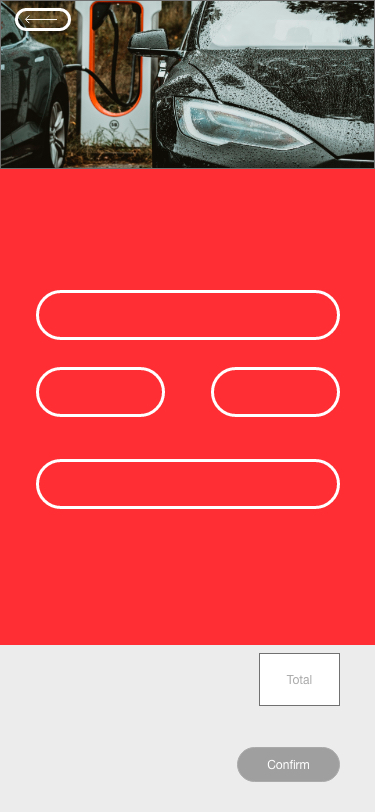
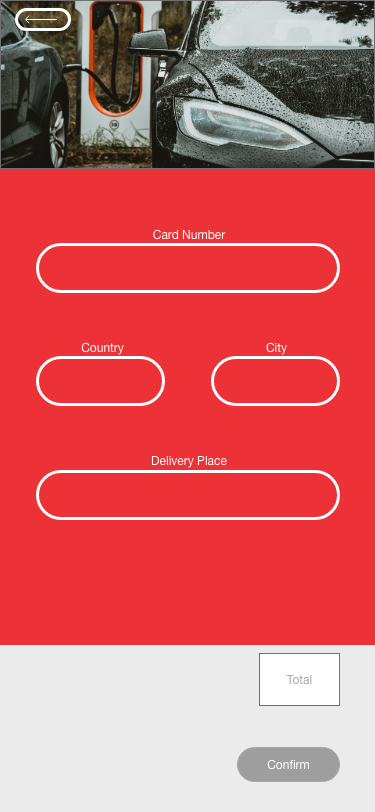
ya casi

diff --git a/src/view/EnvioView.java b/src/view/EnvioView.java
@@ -10,55 +10,54 @@ public class EnvioView {
 	private PApplet app; 
 	private PImage fondo; 
 	private ControlP5 cp5;
-	private String inputs2;
-	private String inputpais;
-	private String ciudad;
-	private String direccion;
+
 	private PFont font1;
+	private int cambio; 
+	private String ID, ciudad, pais, dir;
+	private boolean panta; 
+	
+	private String[] inputs2; 
 	EnvioControl enviocontroller; 
 	public EnvioView(PApplet app) {
+		panta = false; 
+		cambio = 50; 
 		enviocontroller = new EnvioControl(app); 
+		inputs2 = new String[4]; //
 		this.app= app; 
-		inputs2 = "id";
-		inputpais = "pais";
-		ciudad = "ciudad";
-		direccion = "dir";
+		inputs2[0] = "id";
+		inputs2[1] = "pais";
+		inputs2[2] = "ciudad";
+		inputs2[3] = "dir";
 		
 		fondo = app.loadImage("img/credi.png"); 
 		cp5 = new ControlP5(app);
 		font1 = app.createFont("fonts/font1.ttf", 18);
 		
 		//-----------------------------
-	
-
-
-		
-
-			cp5.addTextfield(inputs2).setPosition((app.width / 2) - 120, 300 ).setSize(235, 30)
-					.setAutoClear(true).setColor(100).setColorActive(app.color(255, 0, 0))
-					.setColorBackground(app.color(255, 255, 255)).setColorForeground(app.color(255, 0, 0))
+			cp5.addTextfield(inputs2[0]).setPosition((app.width / 2) - 120, 300-cambio ).setSize(235, 30)
+					.setAutoClear(true).setColor(255).setColorActive(app.color(255, 0, 0,1))
+					.setColorBackground(app.color(255, 255, 255,1)).setColorForeground(app.color(255, 0, 0,1))
 					.setFont(font1)
 					.getCaptionLabel()
 					.hide()
 					;
-			
-			cp5.addTextfield(inputpais).setPosition( 55, 374 ).setSize(100, 40)
-			.setAutoClear(true).setColor(100).setColorActive(app.color(255, 0, 0))
-			.setColorBackground(app.color(255, 255, 255)).setColorForeground(app.color(255, 0, 0))
+			cp5.addTextfield(inputs2[1]).setPosition( 55, 388-cambio/2 ).setSize(100, 40)
+			.setAutoClear(true).setColor(255).setColorActive(app.color(255, 0, 0,1))
+			.setColorBackground(app.color(255, 255, 255,1)).setColorForeground(app.color(255, 0, 0,1))
 			.setFont(font1)
 			.getCaptionLabel()
 			.hide()
 			;
-			cp5.addTextfield(ciudad).setPosition( 228, 374 ).setSize(100, 40)
-			.setAutoClear(true).setColor(100).setColorActive(app.color(255, 0, 0))
-			.setColorBackground(app.color(255, 255, 255)).setColorForeground(app.color(255, 0, 0))
+			cp5.addTextfield(inputs2[2]).setPosition( 228, 388-cambio/2 ).setSize(100, 40)
+			.setAutoClear(true).setColor(255).setColorActive(app.color(255, 0, 0,1))
+			.setColorBackground(app.color(255, 255, 255,1)).setColorForeground(app.color(255, 0, 0,1))
 			.setFont(font1)
 			.getCaptionLabel()
 			.hide()
 			;
-			cp5.addTextfield(direccion).setPosition((app.width / 2) - 120, 468 ).setSize(235, 30)
-			.setAutoClear(true).setColor(100).setColorActive(app.color(255, 0, 0))
-			.setColorBackground(app.color(255, 255, 255)).setColorForeground(app.color(255, 0, 0))
+			cp5.addTextfield(inputs2[3]).setPosition((app.width / 2) - 120, 505-cambio/2 ).setSize(235, 30)
+			.setAutoClear(true).setColor(255).setColorActive(app.color(255, 0, 0,1))
+			.setColorBackground(app.color(255, 255, 255,1)).setColorForeground(app.color(255, 0, 0,1))
 			.setFont(font1)
 			.getCaptionLabel()
 			.hide()
@@ -70,25 +69,48 @@ public class EnvioView {
 	public void drawScreen() {
 		app.image(fondo, 0, 0);
 		
-		
 	}
 	
 	public void hidein() {
-		cp5.get(Textfield.class, inputs2).hide();
-		cp5.get(Textfield.class, inputpais).hide();
-		cp5.get(Textfield.class, ciudad).hide();
-		cp5.get(Textfield.class, direccion).hide();
+		cp5.get(Textfield.class, inputs2[0]).hide();
+		cp5.get(Textfield.class, inputs2[1]).hide();
+		cp5.get(Textfield.class, inputs2[2]).hide();
+		cp5.get(Textfield.class, inputs2[3]).hide();
 	}
 	public void showin() {
-		cp5.get(Textfield.class, inputs2).show();
-		cp5.get(Textfield.class, inputpais).show();
-		cp5.get(Textfield.class, ciudad).show();
-		cp5.get(Textfield.class, direccion).show();
+		cp5.get(Textfield.class, inputs2[0]).show();
+		cp5.get(Textfield.class, inputs2[1]).show();
+		cp5.get(Textfield.class, inputs2[2]).show();
+		cp5.get(Textfield.class, inputs2[3]).show();
 	}
-	
-	
+	public void getInfo() {
+		if (app.mouseX > 242 && app.mouseX <330 && app.mouseY > 750
+				&& app.mouseY < 780) {
+			ID = cp5.get(Textfield.class, "id").getText();
+			pais = cp5.get(Textfield.class, "pais").getText();
+			ciudad = cp5.get(Textfield.class, "ciudad").getText();
+			dir = cp5.get(Textfield.class, "dir").getText();
+			
+			enviocontroller.creoCard(ID, pais, ciudad, dir); 
+			panta = true; 
+			System.out.println(ID);
+			System.out.println("---------------------------------");
+			for (int i = 0; i < inputs2.length; i++) {
+				cp5.get(Textfield.class, inputs2[i]).hide();
+				
 
-	
+			}
+		}
+		
+	}
+
+	public boolean isPanta() {
+		return panta;
+	}
+
+	public void setPanta(boolean panta) {
+		this.panta = panta;
+	}
 	
 
 }

diff --git a/src/model/Tesla.java b/src/model/Tesla.java
@@ -7,6 +7,7 @@ public class Tesla {
 	private PApplet app;
 	private ArrayList<Usuario> usuarios;
 	private ArrayList<Auto> carritos;
+	private ArrayList<Tarjeta> card;
 	private int mo3;
 	private int mos;
 	private int mox;
@@ -14,6 +15,7 @@ public class Tesla {
 	public Tesla(PApplet app) {
 		usuarios = new ArrayList<Usuario>();
 		carritos = new ArrayList<Auto>();
+		card = new ArrayList<Tarjeta>();
 		this.app = app;
 		mo3 = 0;
 		mos = 0;
@@ -24,6 +26,10 @@ public class Tesla {
 	public void registerUser(String username, String password, String email) {
 		usuarios.add(new Usuario(username, password, email));
 		imprimo();
+	}
+	public void creoCard(String ID) {
+		card.add(new Tarjeta(ID));
+		System.out.println("NUEVA TARJETAAA");
 	}
 	public void creoCarro3() {
 		carritos.add(new Model3(app));

diff --git a/src/view/MainView.java b/src/view/MainView.java
@@ -105,6 +105,10 @@ public class MainView extends PApplet {
 			compraview.total();
 			envioview.showin();
 			break;
+		case 5: 
+			envioview.hidein();
+			background(255,0,0); 
+			break; 
 
 		default:
 			break;
@@ -192,8 +196,15 @@ public class MainView extends PApplet {
 			break;
 		case 4:
 			atrasCompra();
+			envioview.getInfo(); 
+			if(envioview.isPanta()) {
+				screen = 5; 
+			}
 
 			break;
+		case 5:
+			ledi(); 
+			break; 
 		default:
 			break;
 		}

diff --git a/src/controller/EnvioControl.java b/src/controller/EnvioControl.java
@@ -13,6 +13,10 @@ public class EnvioControl {
 		
 	}
 	
+	public void creoCard(String ID, String pais, String ciudad, String dir) {
+		tesla.creoCard(ID);
+	}
+	
 	
 
 }
